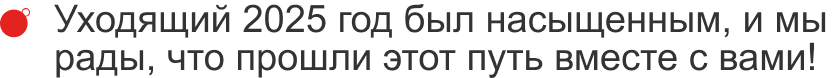
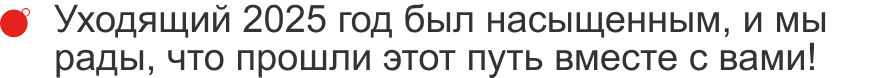
change rjd-4

diff --git a/rjd-4/С новым годом.html b/rjd-4/С новым годом.html
@@ -146,8 +146,8 @@
                                 <td style="font-size:0px;word-break:break-word;">
                                     <table border="0" cellpadding="0" cellspacing="0" role="presentation" style="border-collapse:collapse;border-spacing:0px;">
                                         <tr>
-                                            <td style="width:420px;">
-                                                <img alt="Уходящий 2025 год был насыщенным, и мы рады, что прошли этот путь вместе с вами!" height="auto" src="https://cp.unisender.com/ru/user_file?resource=images&user_id=5608985&name=rjd-4-content-img-1.png" style="border:0;display:block;outline:none;text-decoration:none;height:auto;width:100%;font-size:13px;" width="420">
+                                            <td style="width:444px;">
+                                                <img alt="Уходящий 2025 год был насыщенным, и мы рады, что прошли этот путь вместе с вами!" height="auto" src="https://cp.unisender.com/ru/user_file?resource=images&user_id=5608985&name=rjd-4-content-img-1.png" style="border:0;display:block;outline:none;text-decoration:none;height:auto;width:100%;font-size:13px;" width="444">
                                             </td>
                                         </tr>
                                     </table>
@@ -162,8 +162,8 @@
                                 <td style="font-size:0px;word-break:break-word;padding:12px 0;">
                                     <table border="0" cellpadding="0" cellspacing="0" role="presentation" style="border-collapse:collapse;border-spacing:0px;">
                                         <tr>
-                                            <td style="width:439px;">
-                                                <img alt="Спасибо за ваше доверие, за смелые задачи, которые мы решали вместе, и за ту энергию, которую вы вкладываете в наше общее дело." height="auto" src="https://cp.unisender.com/ru/user_file?resource=images&user_id=5608985&name=rjd-4-content-img-2.png" style="border:0;display:block;outline:none;text-decoration:none;height:auto;width:100%;font-size:13px;" width="439">
+                                            <td style="width:444px;">
+                                                <img alt="Спасибо за ваше доверие, за смелые задачи, которые мы решали вместе, и за ту энергию, которую вы вкладываете в наше общее дело." height="auto" src="https://cp.unisender.com/ru/user_file?resource=images&user_id=5608985&name=rjd-4-content-img-2.png" style="border:0;display:block;outline:none;text-decoration:none;height:auto;width:100%;font-size:13px;" width="444">
                                             </td>
                                         </tr>
                                     </table>
@@ -178,8 +178,8 @@
                                 <td style="font-size:0px;word-break:break-word;">
                                     <table border="0" cellpadding="0" cellspacing="0" role="presentation" style="border-collapse:collapse;border-spacing:0px;">
                                         <tr>
-                                            <td style="width:353px;">
-                                                <img alt="Пусть 2026 год начнется с приятных сюрпризов и добрых новостей." height="auto" src="https://cp.unisender.com/ru/user_file?resource=images&user_id=5608985&name=rjd-4-content-img-3.png" style="border:0;display:block;outline:none;text-decoration:none;height:auto;width:100%;font-size:13px;" width="353">
+                                            <td style="width:444px;">
+                                                <img alt="Пусть 2026 год начнется с приятных сюрпризов и добрых новостей." height="auto" src="https://cp.unisender.com/ru/user_file?resource=images&user_id=5608985&name=rjd-4-content-img-3.png" style="border:0;display:block;outline:none;text-decoration:none;height:auto;width:100%;font-size:13px;" width="444">
                                             </td>
                                         </tr>
                                     </table>
@@ -194,8 +194,8 @@
                                 <td style="font-size:0px;word-break:break-word;padding:12px 0 18px;">
                                     <table border="0" cellpadding="0" cellspacing="0" role="presentation" style="border-collapse:collapse;border-spacing:0px;">
                                         <tr>
-                                            <td style="width:391px;">
-                                                <img alt="Мы искренне желаем вам, чтобы работа приносила вдохновение, проекты реализовывались «на одном дыхании», а в домах всегда было тепло и уютно." height="auto" src="https://cp.unisender.com/ru/user_file?resource=images&user_id=5608985&name=rjd-4-content-img-4.png" style="border:0;display:block;outline:none;text-decoration:none;height:auto;width:100%;font-size:13px;" width="391">
+                                            <td style="width:444px;">
+                                                <img alt="Мы искренне желаем вам, чтобы работа приносила вдохновение, проекты реализовывались «на одном дыхании», а в домах всегда было тепло и уютно." height="auto" src="https://cp.unisender.com/ru/user_file?resource=images&user_id=5608985&name=rjd-4-content-img-4.png" style="border:0;display:block;outline:none;text-decoration:none;height:auto;width:100%;font-size:13px;" width="444">
                                             </td>
                                         </tr>
                                     </table>
